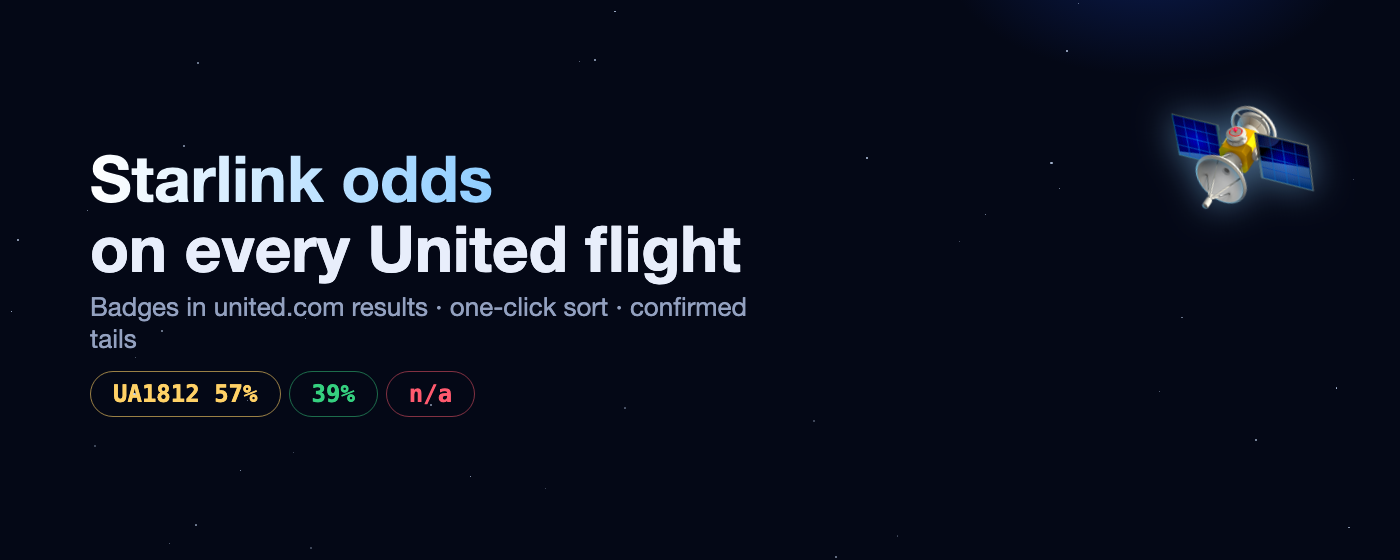
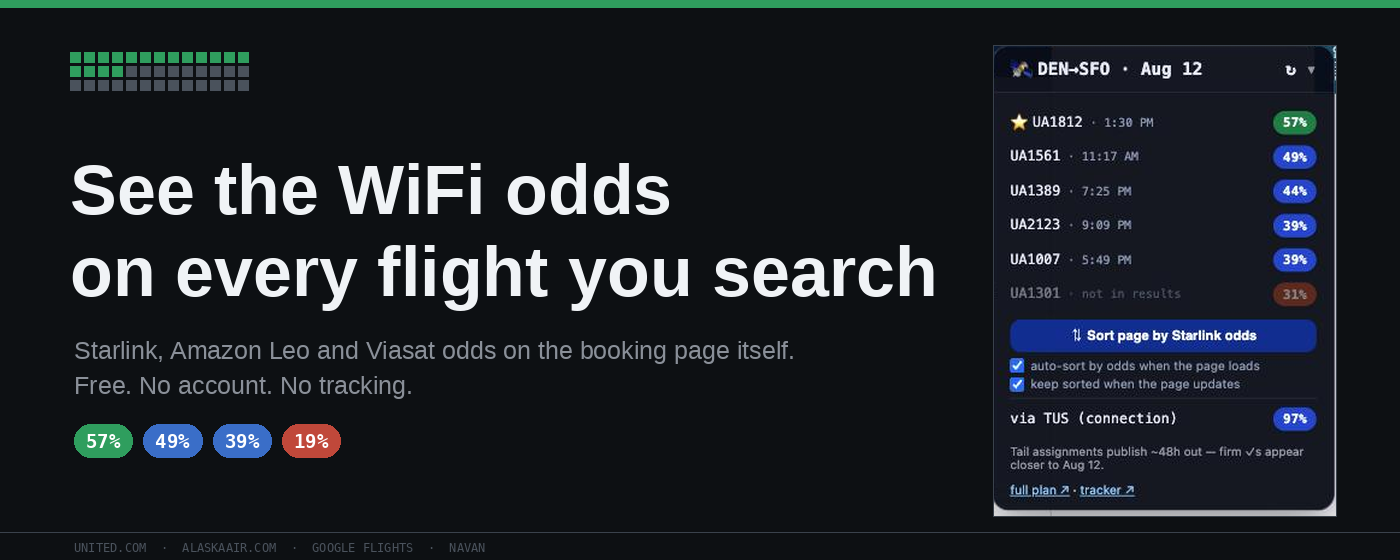
store assets: recapture everything against a live v2.0.0
The listing graphics were v1.5 and United-only. These are captured today with
the unpacked v2.0.0 running the segmented model, so the numbers on screen match
wifiodds.com: Google Flights reads Alaska 55, United 48, Southwest 16, and the
fleet counts read 481/1808 and 1/803.

Worth knowing: the first pass captured the OLD numbers. Chrome was running a
copy of extension/ from before this morning, and the giveaway was the Google
Flights panel printing 'Starlink 481/1807' and '1/817'. Those denominators were
corrected hours earlier. Reloading the unpacked extension fixed it, and it is
the check to run before any future capture session.

Three screenshots, all 1280x800, 24-bit, no alpha:
  1-united          green 57% on UA1812, blue 49% on UA1561, panel, sort control
  2-alaska          E175 regionals at 100%, mainline 737s at 3%
  3-googleflights   per-airline badges plus the cross-carrier panel

The Alaska one is the best thing in the set. On the same route, the same day,
Alaska's SkyWest and Horizon E175s show 100% Starlink while the mainline 737s
show 3%. Nobody knows that before they book, and it is the argument for the
whole product in one frame. It is also the Reddit card,
reddit-alaska-1200x630.png.

Promo tiles rebuilt too. The old pair said 'Starlink odds on every United
flight', which stopped being true at v2.0.0. The marquee now carries the real
route panel cropped from today's capture rather than a drawing of one.
[…]

diff --git a/store-assets/STORE-SUBMISSION-v2.0.0.md b/store-assets/STORE-SUBMISSION-v2.0.0.md
@@ -8,9 +8,8 @@ Two things to know before you start:
 - **Title and Summary come from the package**, not from the form. They change by themselves the
   moment you upload the zip: title becomes "WiFi Odds for Flights", summary becomes the new one-line
   description. You cannot edit them on the Store listing page.
-- **The screenshots already in the listing are fine.** They are real captures at exactly 1280 × 800,
-  which is what the store wants. The blur problem was the website rendering them at ~1,850px.
-  Nothing to redo here.
+- **Every graphic is new.** The old set was v1.5 and United-only. These were captured today against
+  a live v2.0.0 with the segmented ConnectScore, on united.com, alaskaair.com and Google Flights.
 
 ---
 
@@ -75,10 +74,29 @@ Unofficial. Not affiliated with, endorsed by, or sponsored by United Airlines, A
 
 **Category:** Travel (unchanged) · **Language:** English (unchanged)
 
-### Graphic assets
+### Graphic assets — REPLACE ALL OF THEM
 
-Everything already in the listing stays. The same files are in the Desktop folder if you want to
-refresh them: `screenshots/` and `promo-tiles/`.
+The ones in the listing are v1.5 and United-only. These are captured today, with v2.0.0 loaded and
+the segmented ConnectScore live, so the numbers match wifiodds.com.
+
+**Screenshots.** Delete the two currently in the listing, then upload these three in order:
+
+| File | What it shows |
+|---|---|
+| `screenshots/1-united-1280x800.png` | united.com. Green 57% on UA1812, blue 49% on UA1561, the route panel, the sort control |
+| `screenshots/2-alaska-1280x800.png` | alaskaair.com. The E175 regionals at 100%, the mainline 737s at 3% |
+| `screenshots/3-googleflights-1280x800.png` | Google Flights. Per-airline badges plus the cross-carrier panel |
+
+Order matters. The first is the tile most people see, and united.com is still the deepest surface.
+Alaska goes second because it carries the most surprising result on the whole listing.
+
+**Small promo tile:** `promo-tiles/small-tile-440x280.png`
+**Marquee:** `promo-tiles/marquee-1400x560.png`
+
+Both are rebuilt. The old pair said "Starlink odds on every United flight", which stopped being true
+at v2.0.0. The marquee now carries the real route panel rather than a drawing of one.
+
+All five are 24-bit PNG with no alpha, at the exact dimensions the store requires. I checked.
 
 ### Additional fields — both currently blank
 
